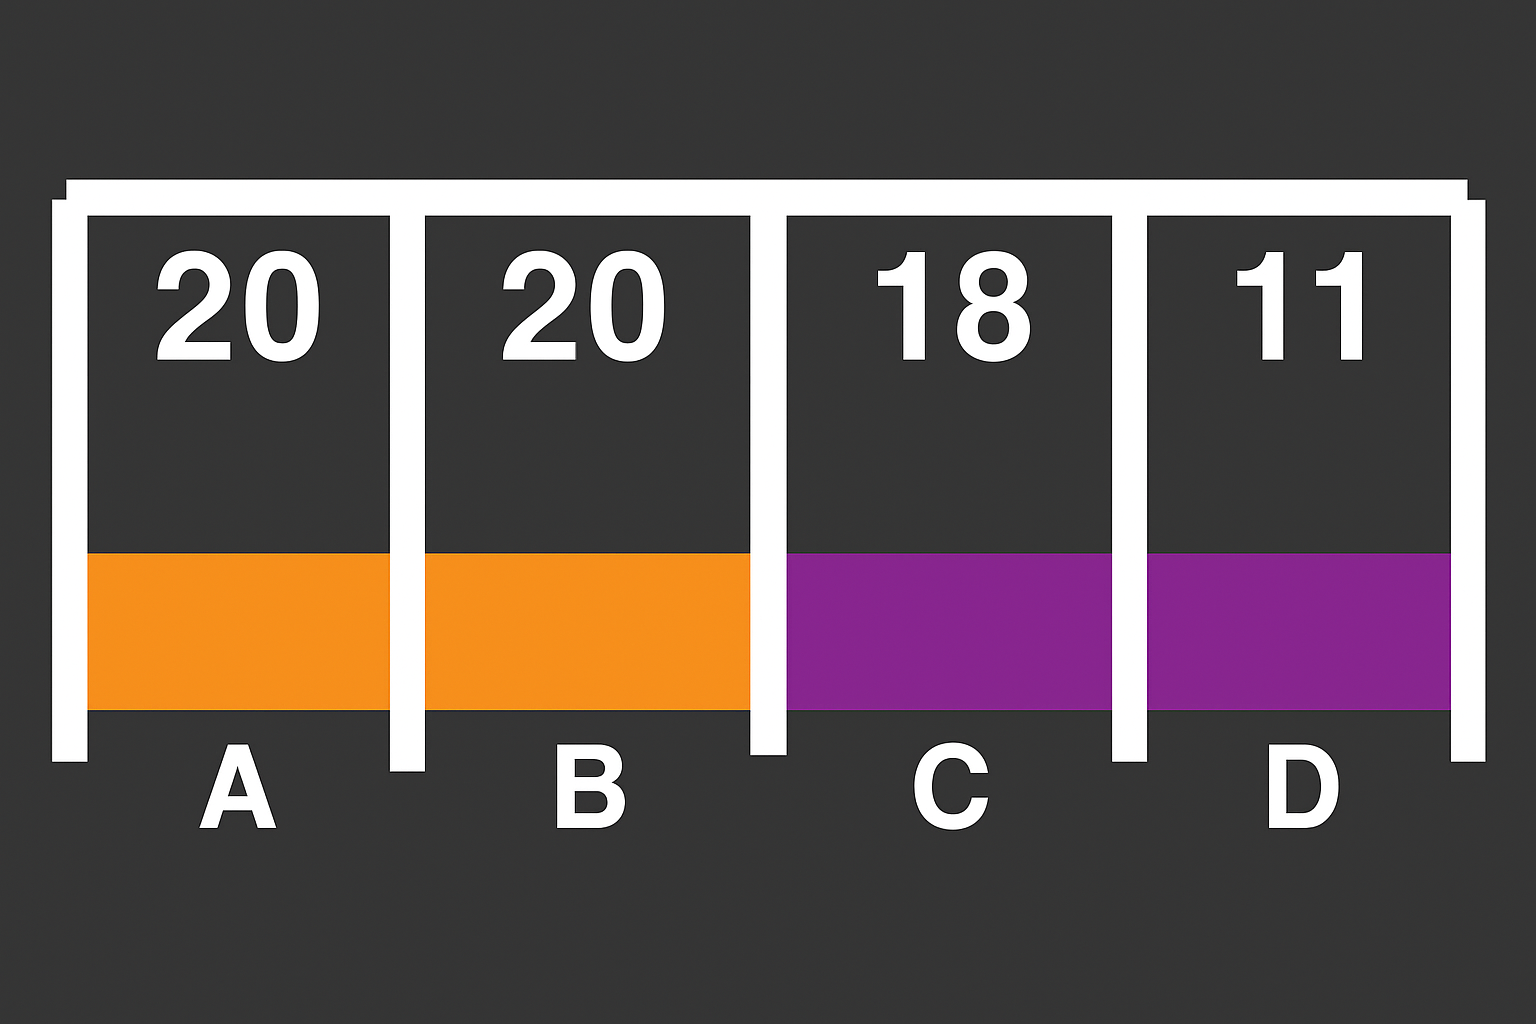
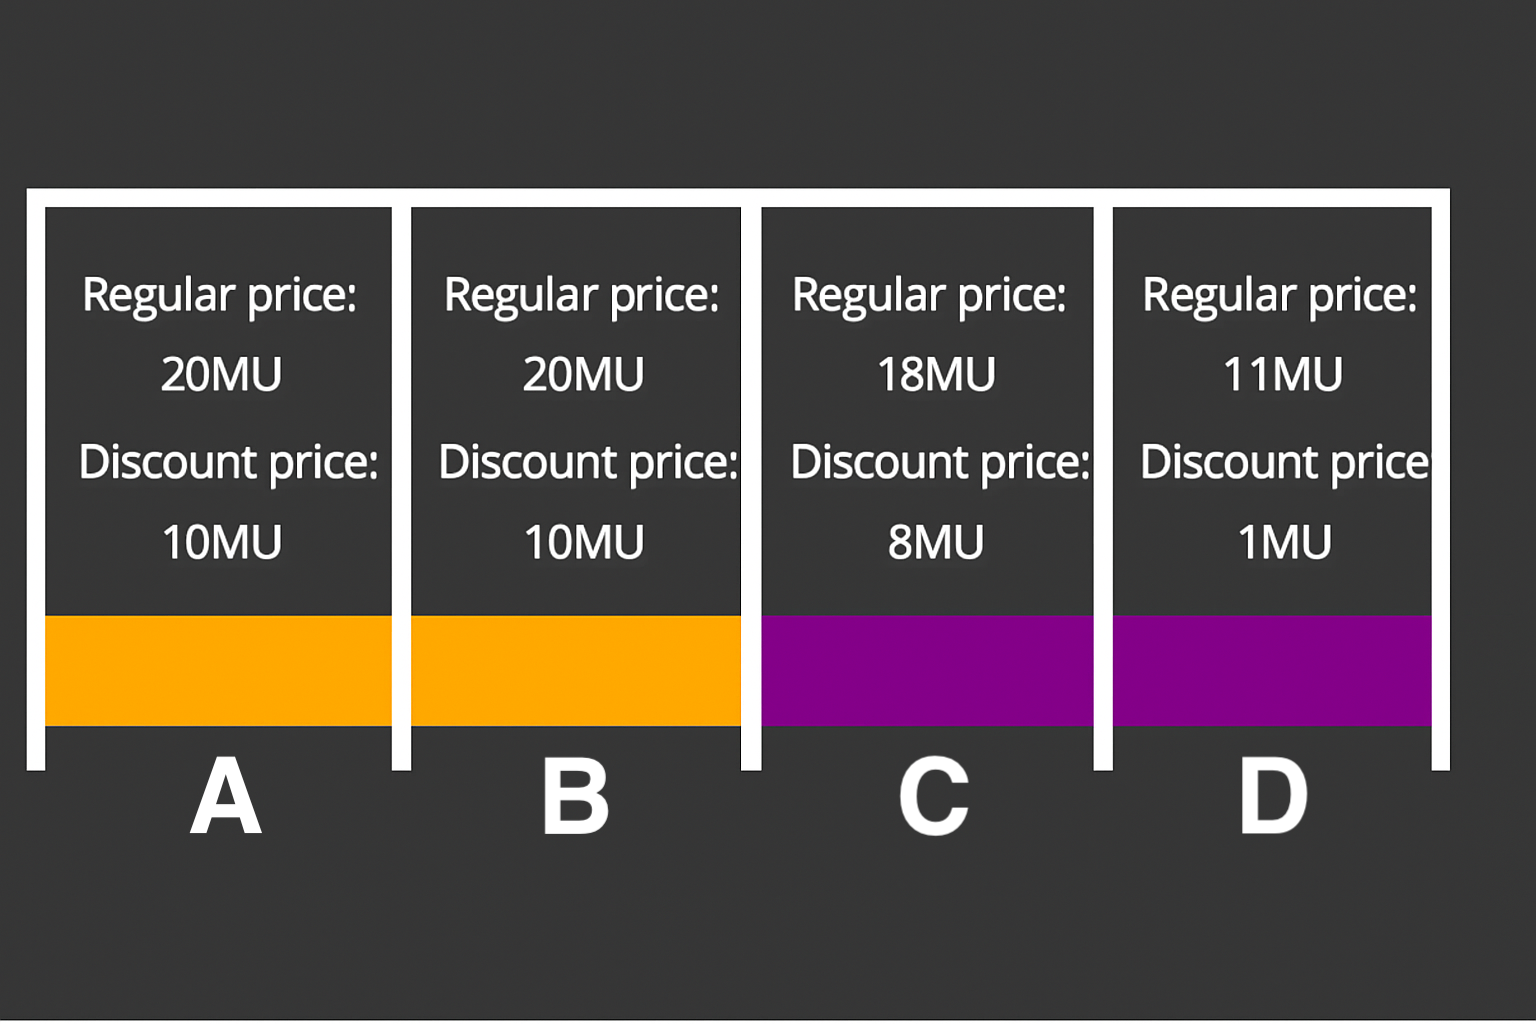
changed parking instructions and png

Changed region(s): [[0.0, 0.1562, 0.9688, 0.8125], [0.0, 0.9688, 1.0, 1.0]]

diff --git a/client/src/intro-exit/Introduction.jsx b/client/src/intro-exit/Introduction.jsx
@@ -11,12 +11,12 @@ export function Introduction({ next }) {
         <p>
           In this experiment, you will play a car parking game with another participant. Your task is to choose where to park your car, but <strong>each parking spot has a different cost</strong>. Additionally, the cost of the parking spot also depends on where your partner parked:
         </p>
-        <p>1. If you and your partner park in the <strong>same spot</strong>, you will incur <strong>a penalty cost of 30.</strong></p>
-        <p>2. If you and your partner park in different spots of the <strong>same color</strong>, you will receive <strong>a group discount of 10.</strong></p>
-        <p>The bonus payment for this experiment depends on the total cost across all rounds in the game. This will be calculated based on this equation:</p>
-        <p> <strong>$5 – (total cost)*$0.01 </strong></p>
-        <p>In other words, your goal is to <strong>minimize the total cost</strong> you pay in this parking game.</p>
-
+        <p>1. If you and your partner park in the <strong>same spot</strong>, you will pay <strong>a penalty of 30MU.</strong></p>
+        <p>2. If you and your partner park in different spots of the <strong>same color</strong>, you will receive <strong>a group discount of 10MU.</strong></p>
+        <p>3. The regular price and the discounted price will be written on the parking spot.</p>
+        <p>The bonus payment for this experiment depends on your total MU across all rounds in the game. This will be calculated based on this equation:</p>
+        <p> <strong>$5 – (total MU you paid)*$0.01 </strong></p>
+        <p>In other words, your goal is to <strong>minimize the total MU</strong> you pay in this parking game.</p>
       </div>
       <Button handleClick={next} autoFocus>
         <p>Next</p>
